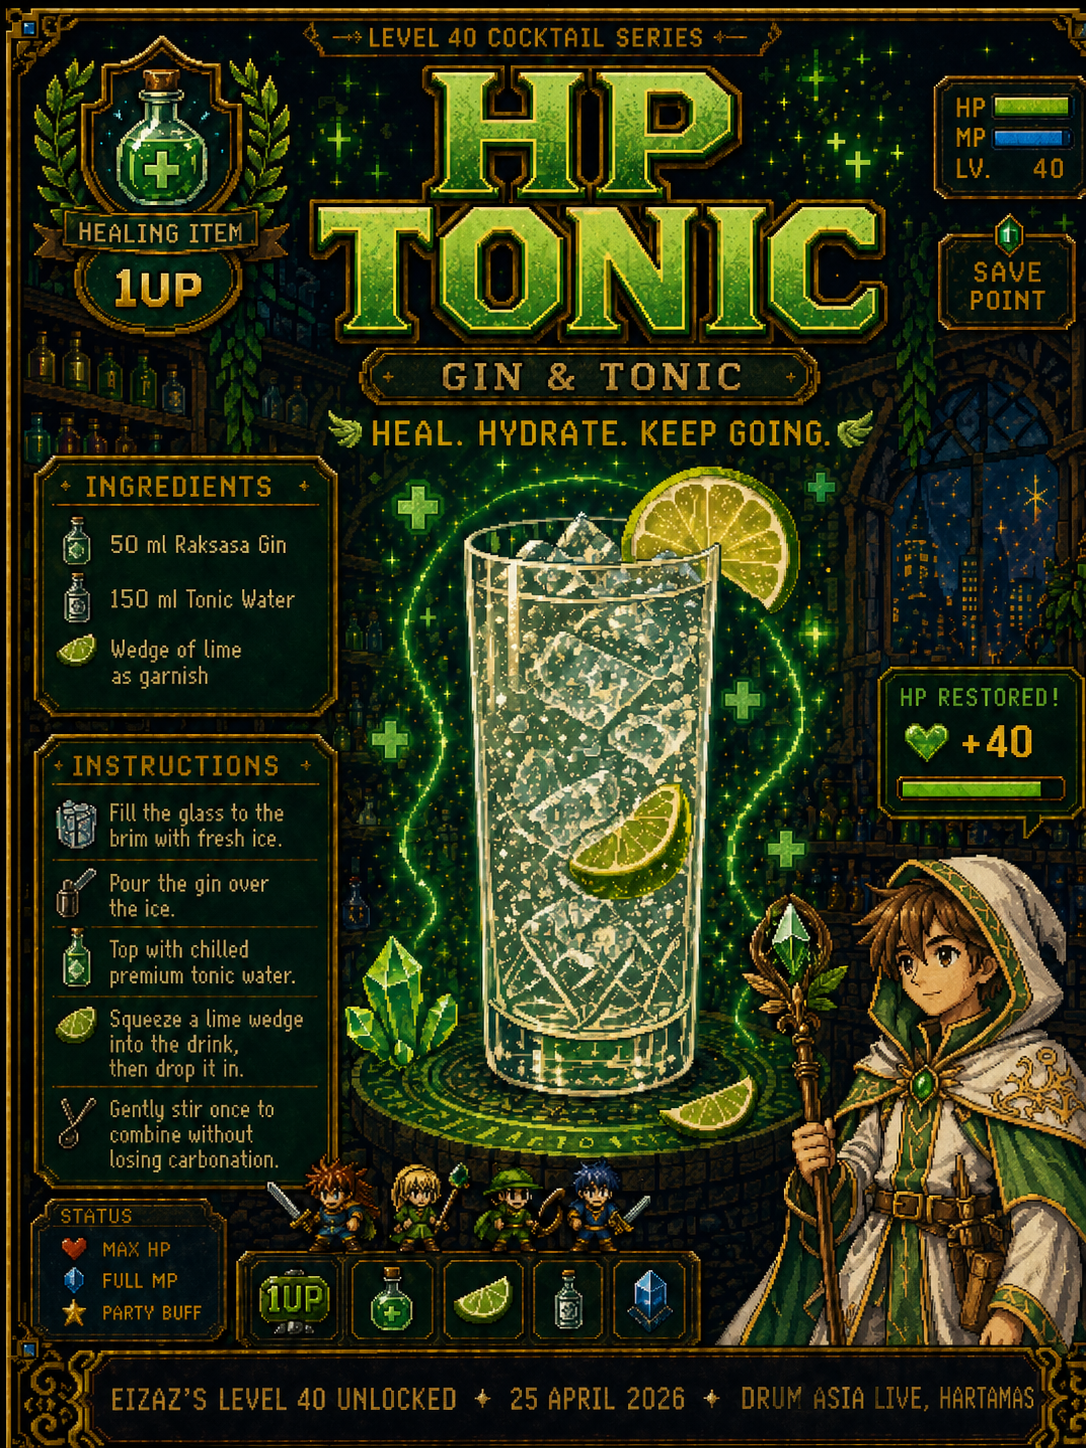
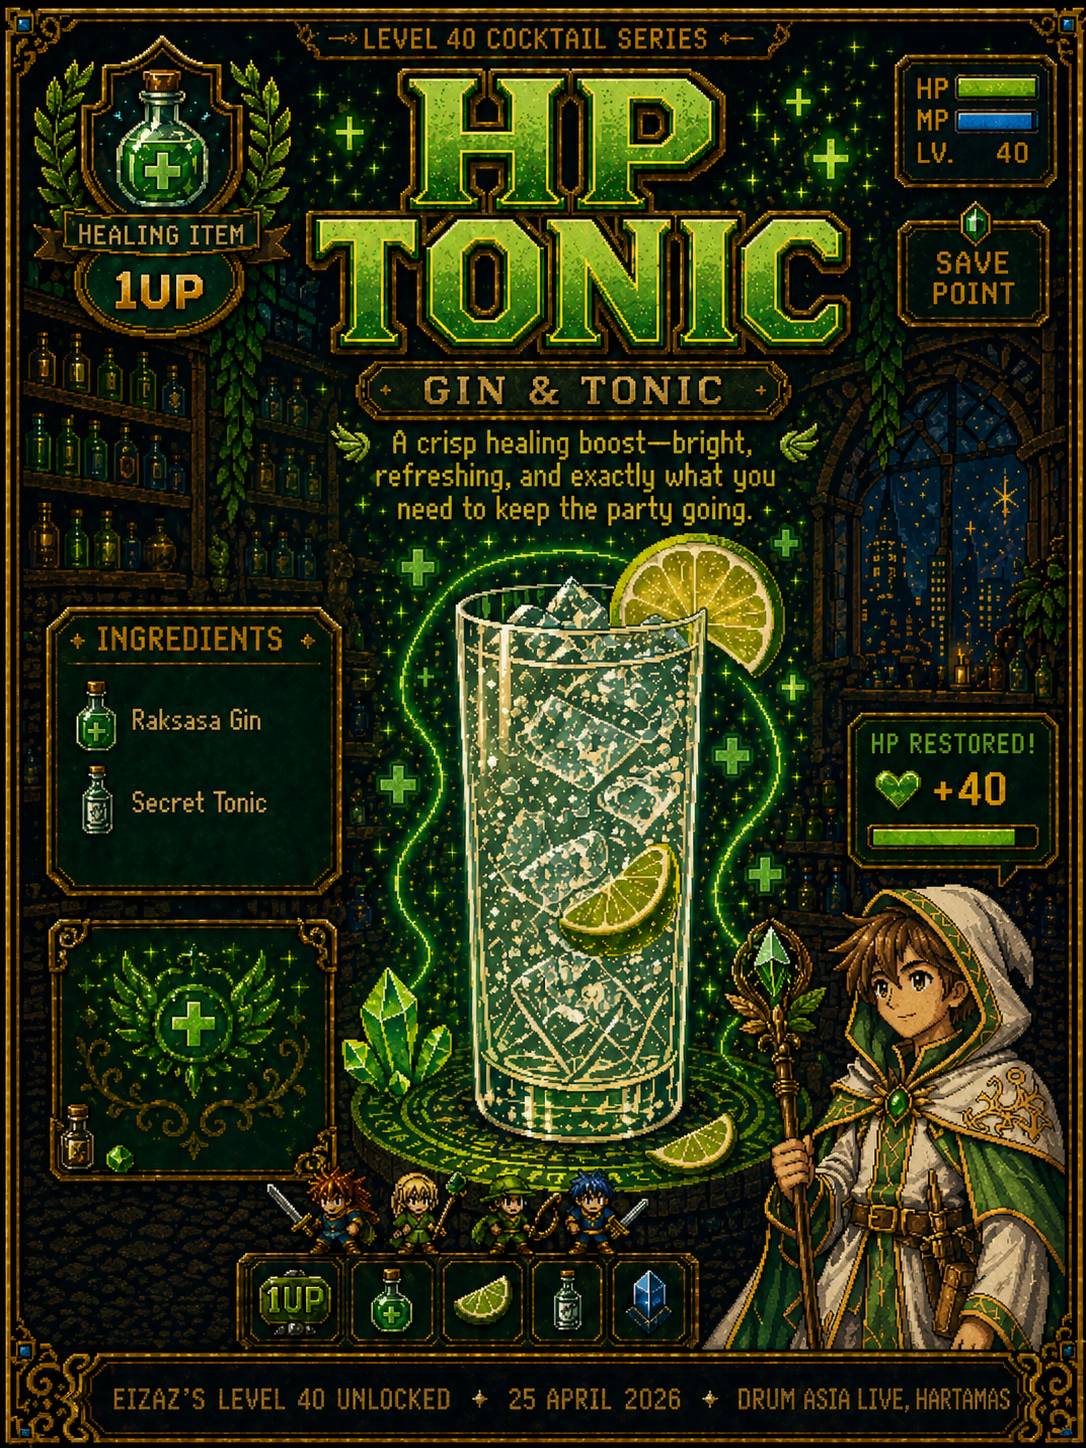
Update cocktail poster images

diff --git a/app/admin/page.tsx b/app/admin/page.tsx
@@ -30,7 +30,7 @@ export default function AdminPage() {
     const [m, s, p] = await Promise.all([mRes.json(), sRes.json(), pRes.json()])
     setMusicians(m)
     setSingers(s)
-    setLive((p as Performance[]).find((x: Performance) => x.status === "live") ?? null)
+    setLive((p as Performance[]).find((x: Performance) => x.status === "live" || x.status === "wrapping") ?? null)
   }, [])
 
   useEffect(() => {
@@ -58,6 +58,13 @@ export default function AdminPage() {
     } else {
       flash("ERROR: " + await res.text())
     }
+    setBusy(false)
+  }
+
+  async function wrapUp() {
+    setBusy(true)
+    await fetch("/api/admin/wrap", { method: "POST" })
+    await fetchAll()
     setBusy(false)
   }
 
@@ -152,14 +159,26 @@ export default function AdminPage() {
               ))}
               {live.band.length === 0 && <span style={{ fontSize: "0.4rem", color: "#555" }}>NO BAND ASSIGNED</span>}
             </div>
-            <button
-              onClick={clearStage}
-              disabled={busy}
-              className="pixel-btn"
-              style={{ background: "#ff4444", color: "#fff", border: "4px solid #000", fontSize: "0.5rem", padding: "0.5rem 1rem" }}
-            >
-              ✓ DONE — CLEAR STAGE
-            </button>
+            <div className="flex gap-2">
+              {live.status === "live" && (
+                <button
+                  onClick={wrapUp}
+                  disabled={busy}
+                  className="pixel-btn"
+                  style={{ background: "#888", color: "#000", border: "4px solid #000", fontSize: "0.5rem", padding: "0.5rem 1rem" }}
+                >
+                  ⏹ WRAP UP
+                </button>
+              )}
+              <button
+                onClick={clearStage}
+                disabled={busy}
+                className="pixel-btn"
+                style={{ background: "#ff4444", color: "#fff", border: "4px solid #000", fontSize: "0.5rem", padding: "0.5rem 1rem" }}
+              >
+                ✕ CLEAR STAGE
+              </button>
+            </div>
           </div>
         ) : (
           <div className="pixel-card" style={{ padding: "1rem", opacity: 0.4 }}>

diff --git a/app/stage/page.tsx b/app/stage/page.tsx
@@ -90,10 +90,12 @@ export default function StagePage() {
       {/* Currently Live */}
       {data.live ? (
         <div style={{ marginBottom: "2rem" }}>
-          <div style={{ fontSize: "0.5rem", color: "#ff4444", marginBottom: "0.75rem", letterSpacing: "0.2em" }}>
-            <span className="blink">●</span> NOW PERFORMING
+          <div style={{ fontSize: "0.5rem", color: data.live.status === "wrapping" ? "#555" : "#ff4444", marginBottom: "0.75rem", letterSpacing: "0.2em" }}>
+            {data.live.status === "wrapping"
+              ? "◼ SET COMPLETE"
+              : <><span className="blink">●</span> NOW PERFORMING</>}
           </div>
-          <div className="pixel-card march-border" style={{ padding: "1.5rem" }}>
+          <div className="pixel-card march-border" style={{ padding: "1.5rem", opacity: data.live.status === "wrapping" ? 0.4 : 1 }}>
             <div style={{ fontSize: "1.2rem", color: "#ffd700", marginBottom: "0.25rem" }}>
               {data.live.singer ? data.live.singer.name.toUpperCase() : "🎵 INSTRUMENTAL"}
             </div>

diff --git a/app/api/admin/clear/route.ts b/app/api/admin/clear/route.ts
@@ -3,14 +3,17 @@ import { getPerformances, savePerformances, getMusicians, saveMusicians } from "
 
 export async function POST() {
   const [performances, musicians] = await Promise.all([getPerformances(), getMusicians()])
-  const liveIdx = performances.findIndex(p => p.status === "live")
-  if (liveIdx !== -1) {
-    performances[liveIdx].status = "done"
-    for (const m of performances[liveIdx].band) {
-      const musician = musicians.find(x => x.id === m.id)
-      if (musician) musician.available = true
+  let changed = false
+  for (const p of performances) {
+    if (p.status === "live" || p.status === "wrapping") {
+      p.status = "done"
+      for (const m of p.band) {
+        const musician = musicians.find(x => x.id === m.id)
+        if (musician) musician.available = true
+      }
+      changed = true
     }
-    await Promise.all([savePerformances(performances), saveMusicians(musicians)])
   }
+  if (changed) await Promise.all([savePerformances(performances), saveMusicians(musicians)])
   return NextResponse.json({ ok: true })
 }

diff --git a/app/api/admin/announce/route.ts b/app/api/admin/announce/route.ts
@@ -30,13 +30,14 @@ export async function POST(req: NextRequest) {
     getPerformances(), getMusicians(), getSingers(),
   ])
 
-  // Free up band from any current live
-  const liveIdx = performances.findIndex(p => p.status === "live")
-  if (liveIdx !== -1) {
-    performances[liveIdx].status = "done"
-    for (const m of performances[liveIdx].band) {
-      const musician = musicians.find(x => x.id === m.id)
-      if (musician) musician.available = true
+  // Clear any current live or wrapping performance
+  for (const p of performances) {
+    if (p.status === "live" || p.status === "wrapping") {
+      p.status = "done"
+      for (const m of p.band) {
+        const musician = musicians.find(x => x.id === m.id)
+        if (musician) musician.available = true
+      }
     }
   }
 

diff --git a/app/api/admin/wrap/route.ts b/app/api/admin/wrap/route.ts
@@ -1,0 +1,16 @@
+import { NextResponse } from "next/server"
+import { getPerformances, savePerformances, getMusicians, saveMusicians } from "@/lib/kv"
+
+export async function POST() {
+  const [performances, musicians] = await Promise.all([getPerformances(), getMusicians()])
+  const liveIdx = performances.findIndex(p => p.status === "live")
+  if (liveIdx !== -1) {
+    performances[liveIdx].status = "wrapping"
+    for (const m of performances[liveIdx].band) {
+      const musician = musicians.find(x => x.id === m.id)
+      if (musician) musician.available = true
+    }
+    await Promise.all([savePerformances(performances), saveMusicians(musicians)])
+  }
+  return NextResponse.json({ ok: true })
+}

diff --git a/app/api/performances/route.ts b/app/api/performances/route.ts
@@ -7,7 +7,7 @@ export async function GET(req: NextRequest) {
   const includeSingers = searchParams.get("include") === "singers"
 
   const performances = await getPerformances()
-  const live = performances.find(p => p.status === "live") ?? null
+  const live = performances.find(p => p.status === "live" || p.status === "wrapping") ?? null
   const queued = performances
     .filter(p => p.status === "queued")
     .sort((a, b) => a.createdAt - b.createdAt)

diff --git a/lib/types.ts b/lib/types.ts
@@ -18,7 +18,7 @@ export interface Singer {
   joinedAt: number
 }
 
-export type PerformanceStatus = 'queued' | 'live' | 'done'
+export type PerformanceStatus = 'queued' | 'live' | 'wrapping' | 'done'
 
 export interface Performance {
   id: string
